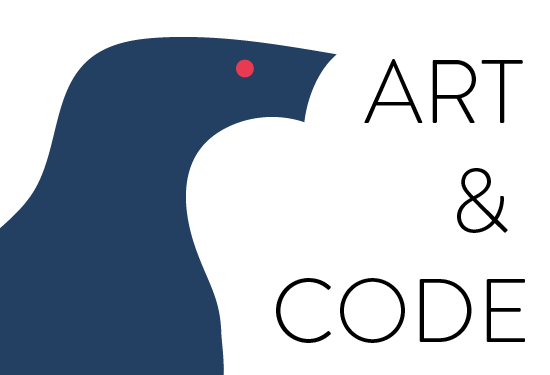
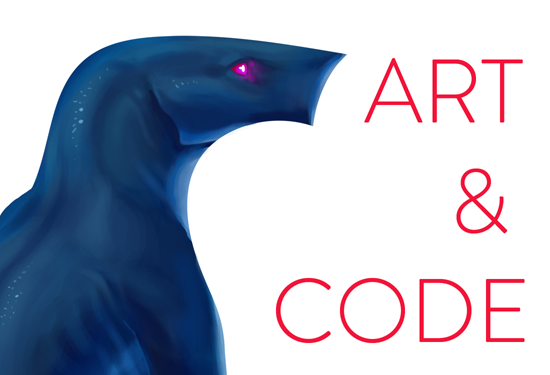
Placeholder images updated and replaced
Made and replaced placeholder images. Updated project image. Version 1.0 website ready.

diff --git a/index.html b/index.html
@@ -29,12 +29,12 @@
                 <div class="main-title flex-vertical-mobile">
                     <a href="art.html" class="link-title-art horz-lineup">Art</a>
                     <div class="creature-box element-hidden">
-                        <img src="icon_img/Creature_tailturn_placeholder.png" alt="Art of a sitting darkblue creature with a magenta eye." class="element-hidden creature-mobile">
+                        <img src="icon_img/Creature-tail-right.png" alt="Art of a sitting darkblue creature with a magenta eye." class="element-hidden creature-mobile">
                     </div>                    
                     <p class ="title-ampersand horz-lineup mobile-hidden">&</p>
                     <a href="code.html" class="link-title-code horz-lineup">Code</a>
                 </div>
-                <img src="icon_img/Creature_placeholder.png" alt="Art of a sitting darkblue creature with a magenta eye." class="creature-art mobile-hidden">
+                <img src="icon_img/Creature-tail-left.png" alt="Art of a sitting darkblue creature with a magenta eye." class="creature-art mobile-hidden">
             </div>            
         </div>
     </main>

diff --git a/main.css b/main.css
@@ -3,10 +3,10 @@
     --main-color-35percent: rgba(0, 0, 0, 0.35);
     --main-color-65percent: rgba(0, 0, 0, 0.65);
     --main-color-90percent: rgba(0, 0, 0, 0.9);
-    --key-color: #f21439;
+    --key-color: rgb(242, 20, 57);
     --key-color-50percent: rgba(242, 20, 57, 0.5);
     --key-color-90percent: rgba(242, 20, 57, 0.9);
-    --secondary-color: #fff;
+    --secondary-color: rgb(255, 255, 255);
     --secondary-color-25percent: rgba(255, 255, 255, 0.25);
     --secondary-color-90percent: rgba(255, 255, 255, 0.9);    
     --tertiary-color: rgba(128, 128, 128, 1);

diff --git a/README.md b/README.md
@@ -3,7 +3,11 @@ Portfolio Website
 
 For: art and code
 
--WORK IN PROGRESS-
+Version 1.0 
+
+--------
+
+-Update Log-
 
 Update 01 - Added the first HTML and CSS files.
 
@@ -38,3 +42,5 @@ Update 15 - Refined mobile menu and structure.
 Update 16 - Added art standout interaction and some minor name changes.
 
 Update 17 - Added mobile version of the Home page.
+
+Update 18 - Made and replaced placeholder index page image. Updated project image. Version 1.0 website ready.
